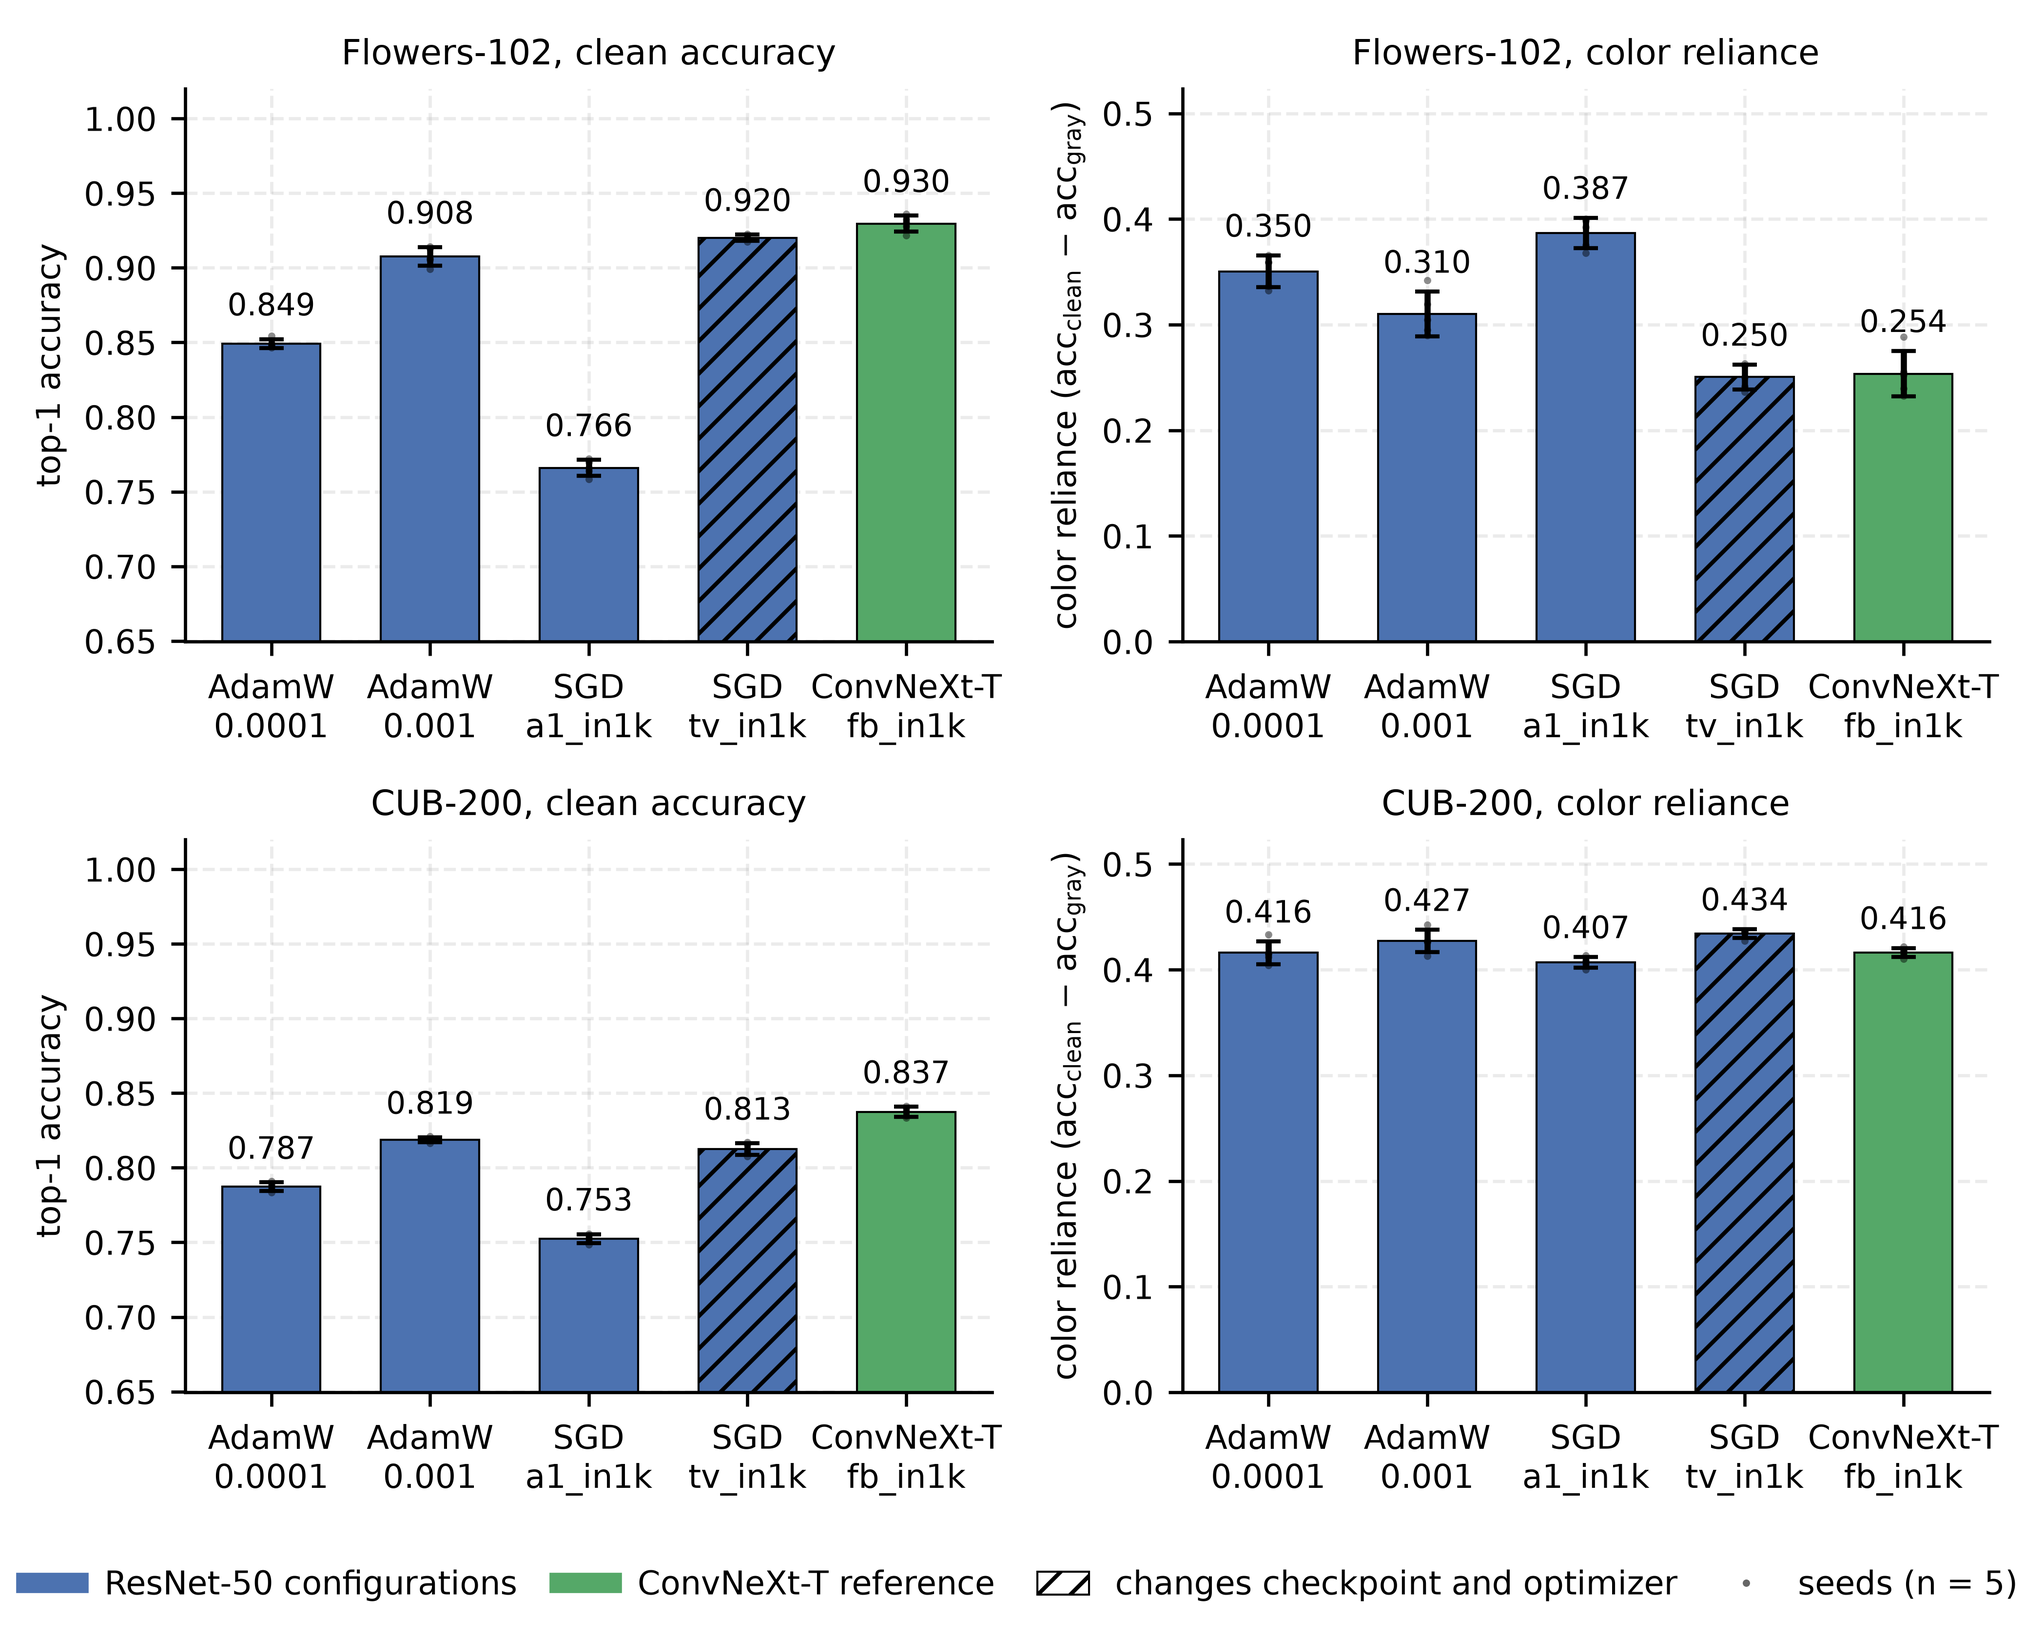
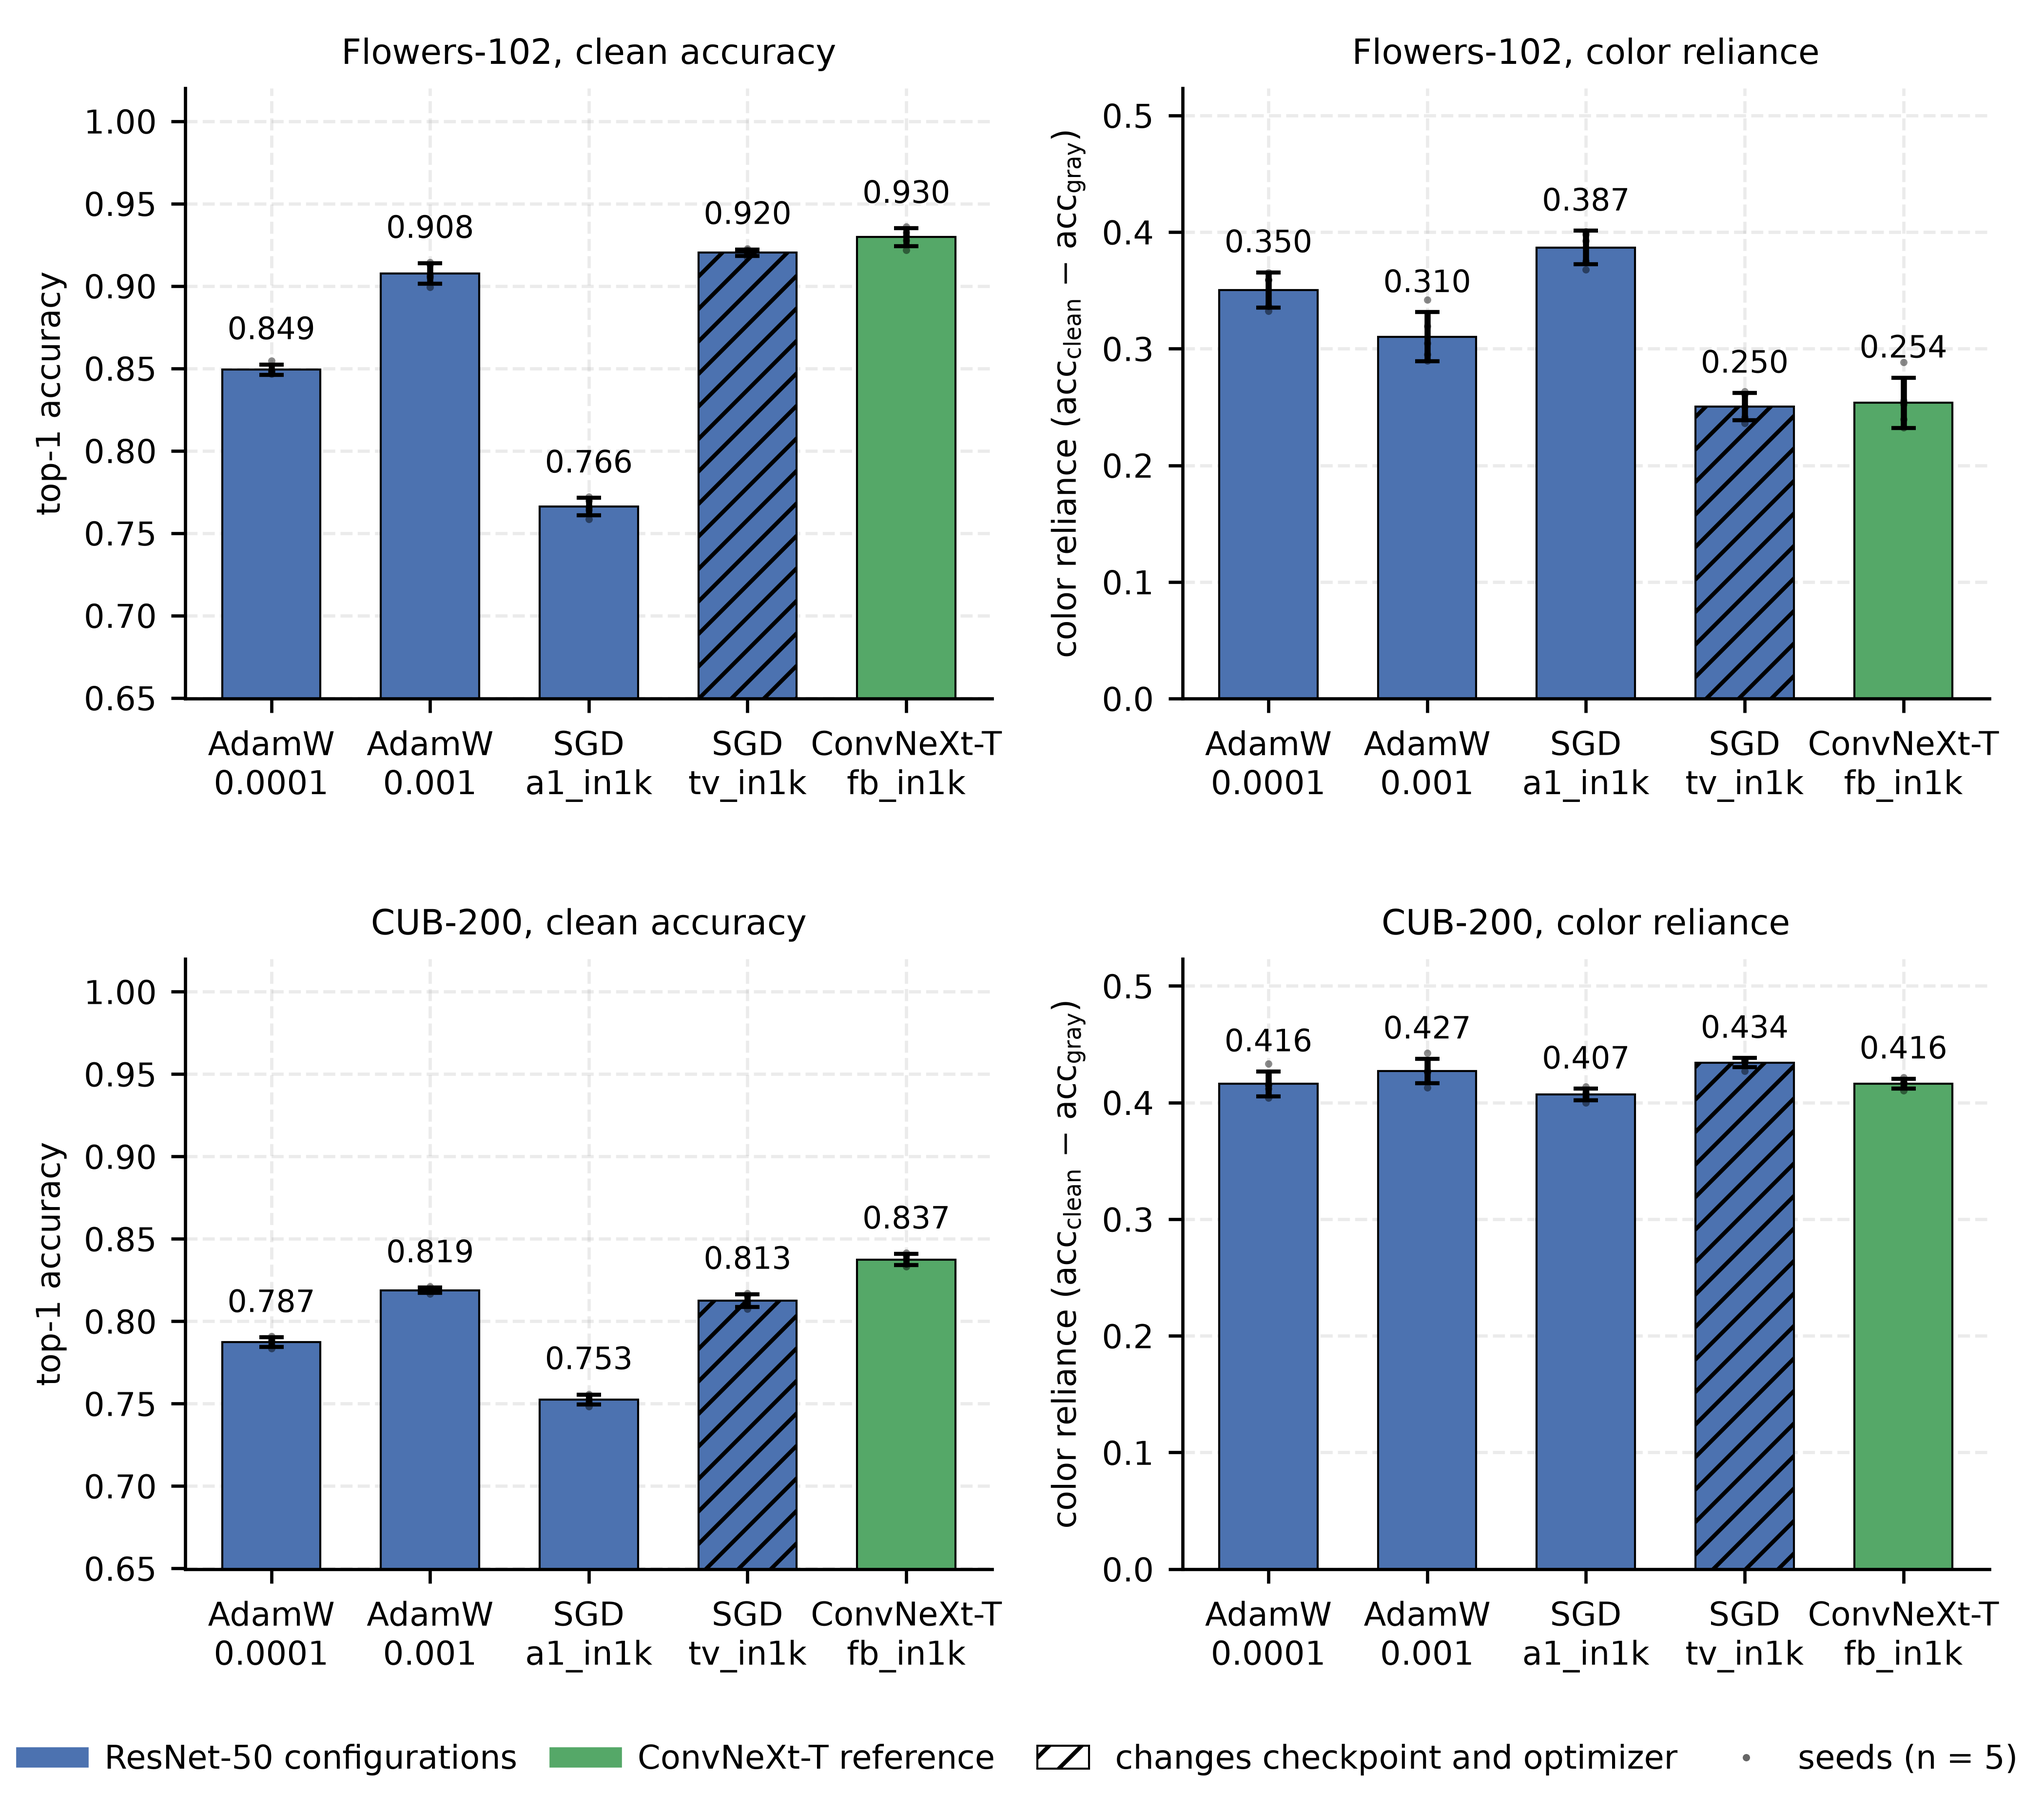
Adjust figure print heights and panel spacing

diff --git a/analysis/build_fig7_perspecies.py b/analysis/build_fig7_perspecies.py
@@ -28,6 +28,7 @@ from src.utils import load_config, chdir_to_root
 from analysis.arms import MAIN_ARMS as MODEL_ORDER, MLAB, MCOLOR, DSLAB, check
 
 TEXTWIDTH_IN = 6.989
+COLWIDTH_IN = 3.36   # \columnwidth ieeeaccess.cls (single column)
 
 
 def _print_style():
@@ -42,18 +43,20 @@ def _print_style():
 
 def build(perclass, datasets, out_png):
     _print_style()
-    fig, axes = plt.subplots(1, len(datasets), figsize=(TEXTWIDTH_IN, 2.9),
+    # single-column: dua dataset ditumpuk ATAS-BAWAH (bukan kiri-kanan), tiap
+    # panel dapat lebar kolom penuh.
+    fig, axes = plt.subplots(len(datasets), 1, figsize=(COLWIDTH_IN, 3.8),
                              squeeze=False)
     # rentang-Y disamakan lintas panel: kedua dataset punya CR per-kelas di kisaran
     # yang sama (~-0.3 sampai 1.0), jadi bentuk distribusi bisa dibandingkan langsung.
     lo = float(perclass.CR_mean.min()) - 0.05
     hi = 1.02
     for c, ds in enumerate(datasets):
-        ax = axes[0][c]
+        ax = axes[c][0]
         sub = perclass[perclass.dataset == ds]
         data = [sub[sub.arm == m].CR_mean.dropna().values for m in MODEL_ORDER]
         pos = list(range(len(MODEL_ORDER)))
-        parts = ax.violinplot(data, positions=pos, widths=0.8,
+        parts = ax.violinplot(data, positions=pos, widths=0.32,
                               showmeans=False, showextrema=False, showmedians=True)
         for body, m in zip(parts["bodies"], MODEL_ORDER):
             body.set_facecolor(MCOLOR[m]); body.set_edgecolor("0.3")
@@ -61,12 +64,11 @@ def build(perclass, datasets, out_png):
         parts["cmedians"].set_color("0.15"); parts["cmedians"].set_linewidth(1.1)
         ax.axhline(0.0, color="0.45", ls=":", lw=0.9, zorder=1)   # acuan CR = 0
         ax.set_xticks(pos)
-        ax.set_xticklabels([MLAB[m] for m in MODEL_ORDER], rotation=0)
+        ax.set_xticklabels([MLAB[m] for m in MODEL_ORDER], rotation=20, ha="right")
         ax.set_ylim(lo, hi)
         ax.set_title(DSLAB[ds])
-        if c == 0:
-            ax.set_ylabel("per-class Color-Reliance")
-    fig.tight_layout()
+        ax.set_ylabel("per-class Color-Reliance")   # tiap panel (kini ditumpuk)
+    fig.tight_layout(h_pad=3.0)            # jarak vertikal antar panel atas-bawah
     fig.savefig(out_png, dpi=600)          # TANPA bbox_inches="tight"
     plt.close(fig)
 

diff --git a/analysis/build_fig3_dropcurves.py b/analysis/build_fig3_dropcurves.py
@@ -88,7 +88,7 @@ def build(e2, datasets, out_png):
     nrow = len(datasets)
     # tinggi per baris 2.55 in -> panel 3.4 x 2.55, rasio wajar untuk kurva garis.
     # +0.55 in di bawah untuk legenda bersama.
-    fig, axes = plt.subplots(nrow, 2, figsize=(TEXTWIDTH_IN, 2.55 * nrow + 0.55),
+    fig, axes = plt.subplots(nrow, 2, figsize=(TEXTWIDTH_IN, 3.3 * nrow + 0.8),
                              squeeze=False)
 
     # Rentang Y disamakan ANTARA PANEL KIRI DAN KANAN pada baris yang sama, yaitu
@@ -189,7 +189,7 @@ def build(e2, datasets, out_png):
                loc="lower center", ncol=6, fontsize=8, frameon=False,
                bbox_to_anchor=(0.5, 0.0), columnspacing=1.1, handlelength=1.6)
     # rect menyisakan pita bawah untuk legenda; tight_layout MEMPERTAHANKAN figsize.
-    fig.tight_layout(rect=(0, 0.055, 1, 1))
+    fig.tight_layout(rect=(0, 0.055, 1, 1), h_pad=3.0)   # jarak vertikal antar baris panel
     # TANPA bbox_inches="tight": itu akan memangkas kanvas dan mengubah lebar
     # keluaran, sehingga jaminan "8 pt = 8 pt" hilang.
     fig.savefig(out_png, dpi=600)

diff --git a/analysis/build_fig5_ablation.py b/analysis/build_fig5_ablation.py
@@ -88,7 +88,7 @@ def build(data, datasets, out_png):
         lims[k] = (max(0.0, bot - 0.10) if k == "acc" else 0.0, top + 0.085)
 
     nrow = len(datasets)
-    fig, axes = plt.subplots(nrow, 2, figsize=(TEXTWIDTH_IN, 2.55 * nrow + 0.5),
+    fig, axes = plt.subplots(nrow, 2, figsize=(TEXTWIDTH_IN, 2.8 * nrow + 0.6),
                              squeeze=False)
     x = np.arange(len(order))
     for r, ds in enumerate(datasets):
@@ -127,7 +127,7 @@ def build(data, datasets, out_png):
           "changes checkpoint and optimizer", "seeds (n = 5)"]
     fig.legend(h, lb, loc="lower center", ncol=4, fontsize=8, frameon=False,
                bbox_to_anchor=(0.5, 0.004), columnspacing=1.3, handlelength=1.6)
-    fig.tight_layout(rect=(0, 0.062, 1, 1))
+    fig.tight_layout(rect=(0, 0.055, 1, 1), h_pad=3.0)   # jarak vertikal antar baris panel
     fig.savefig(out_png, dpi=600)
     plt.close(fig)
 
